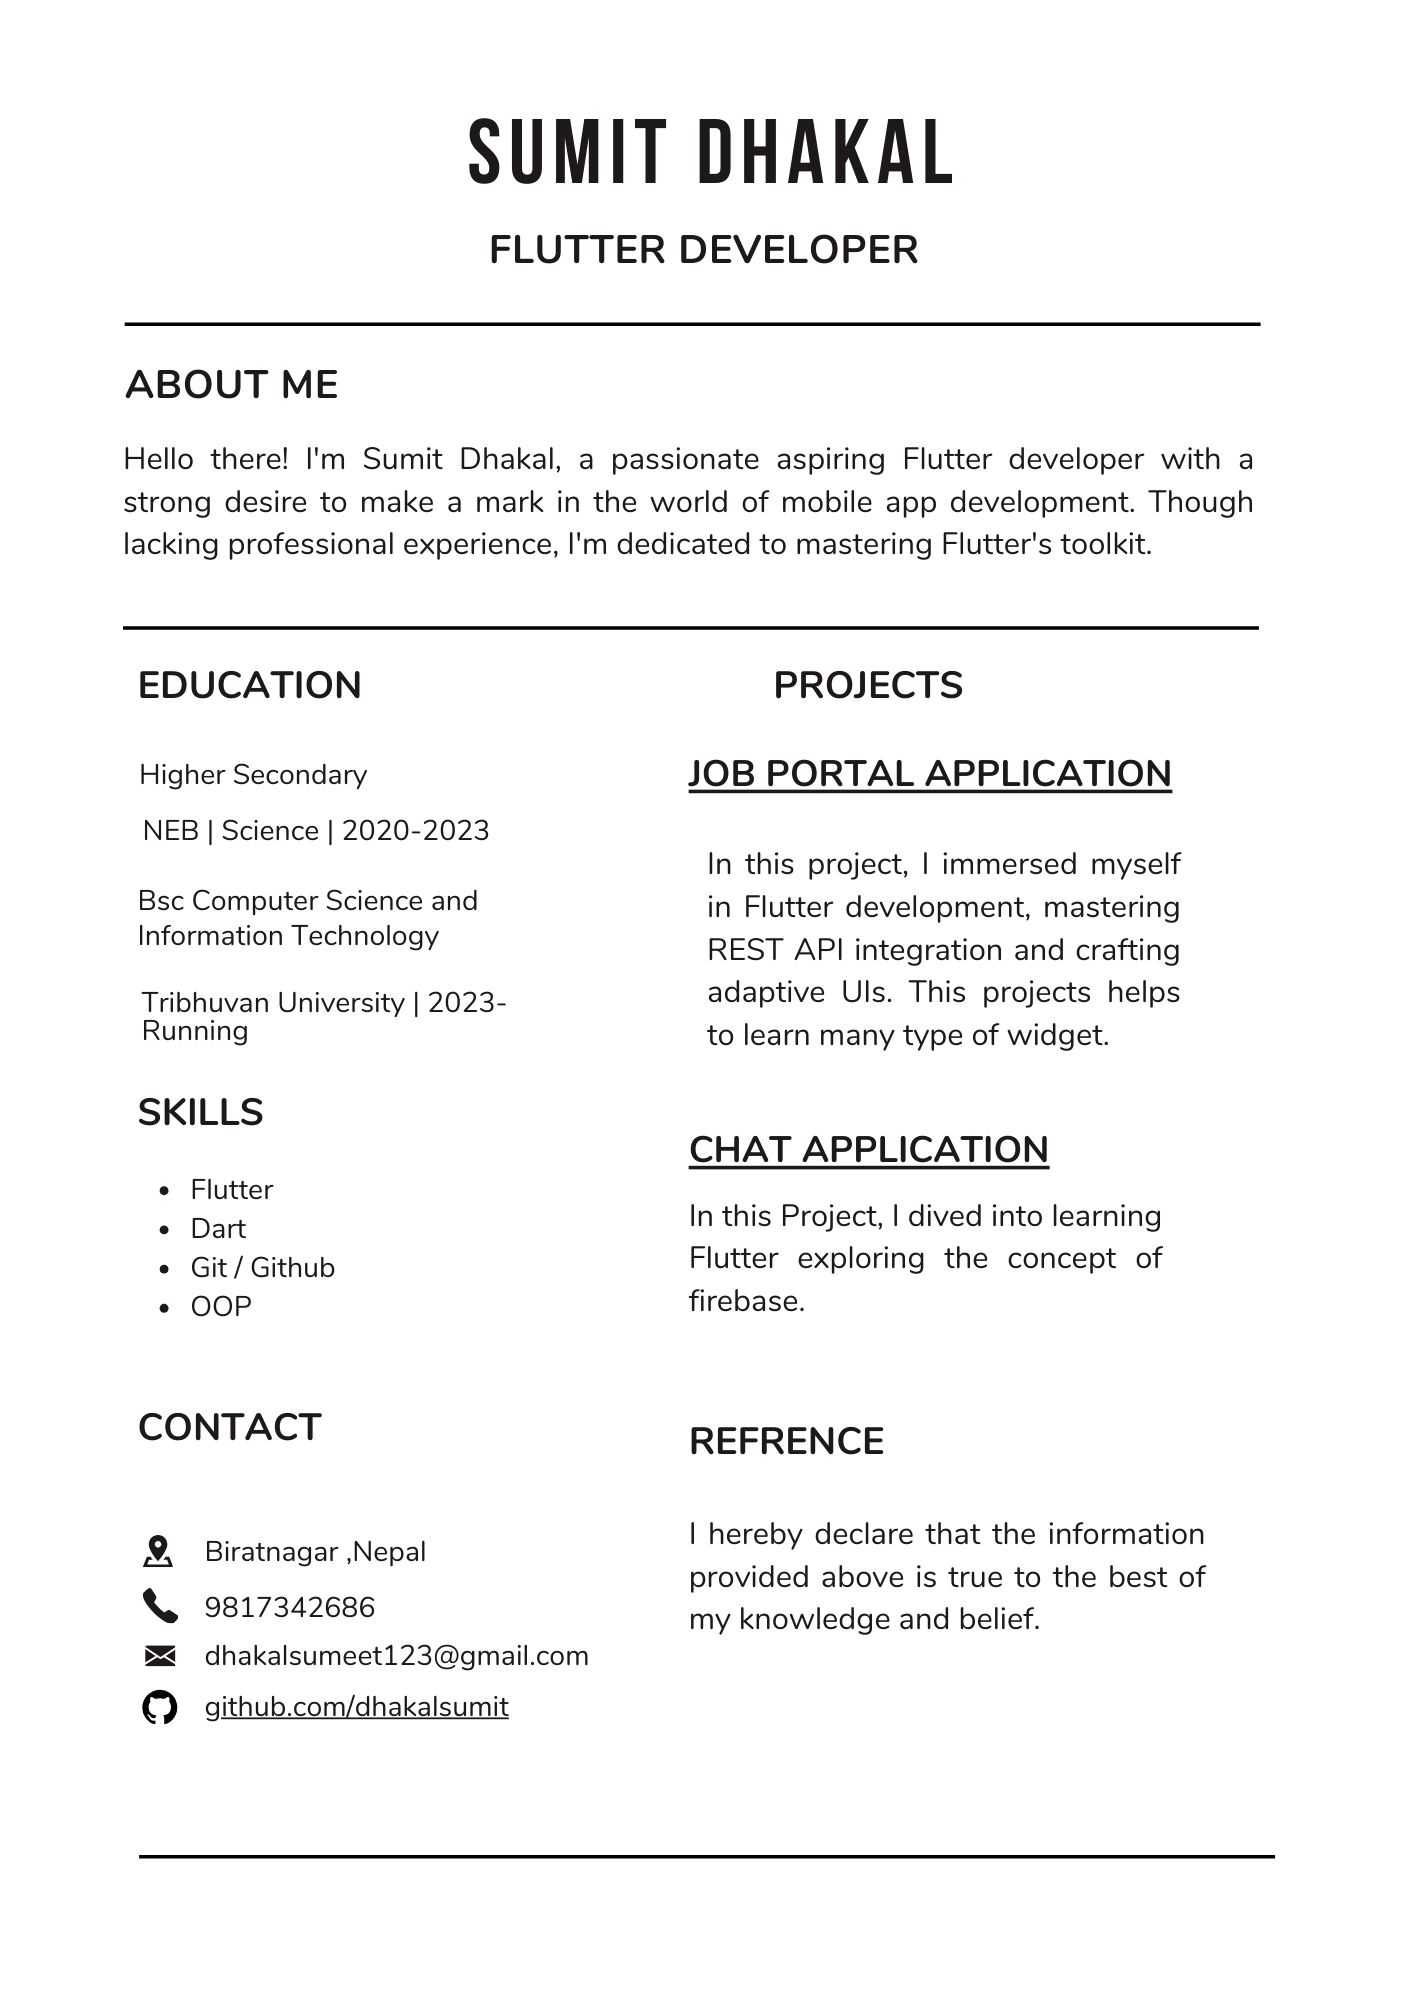
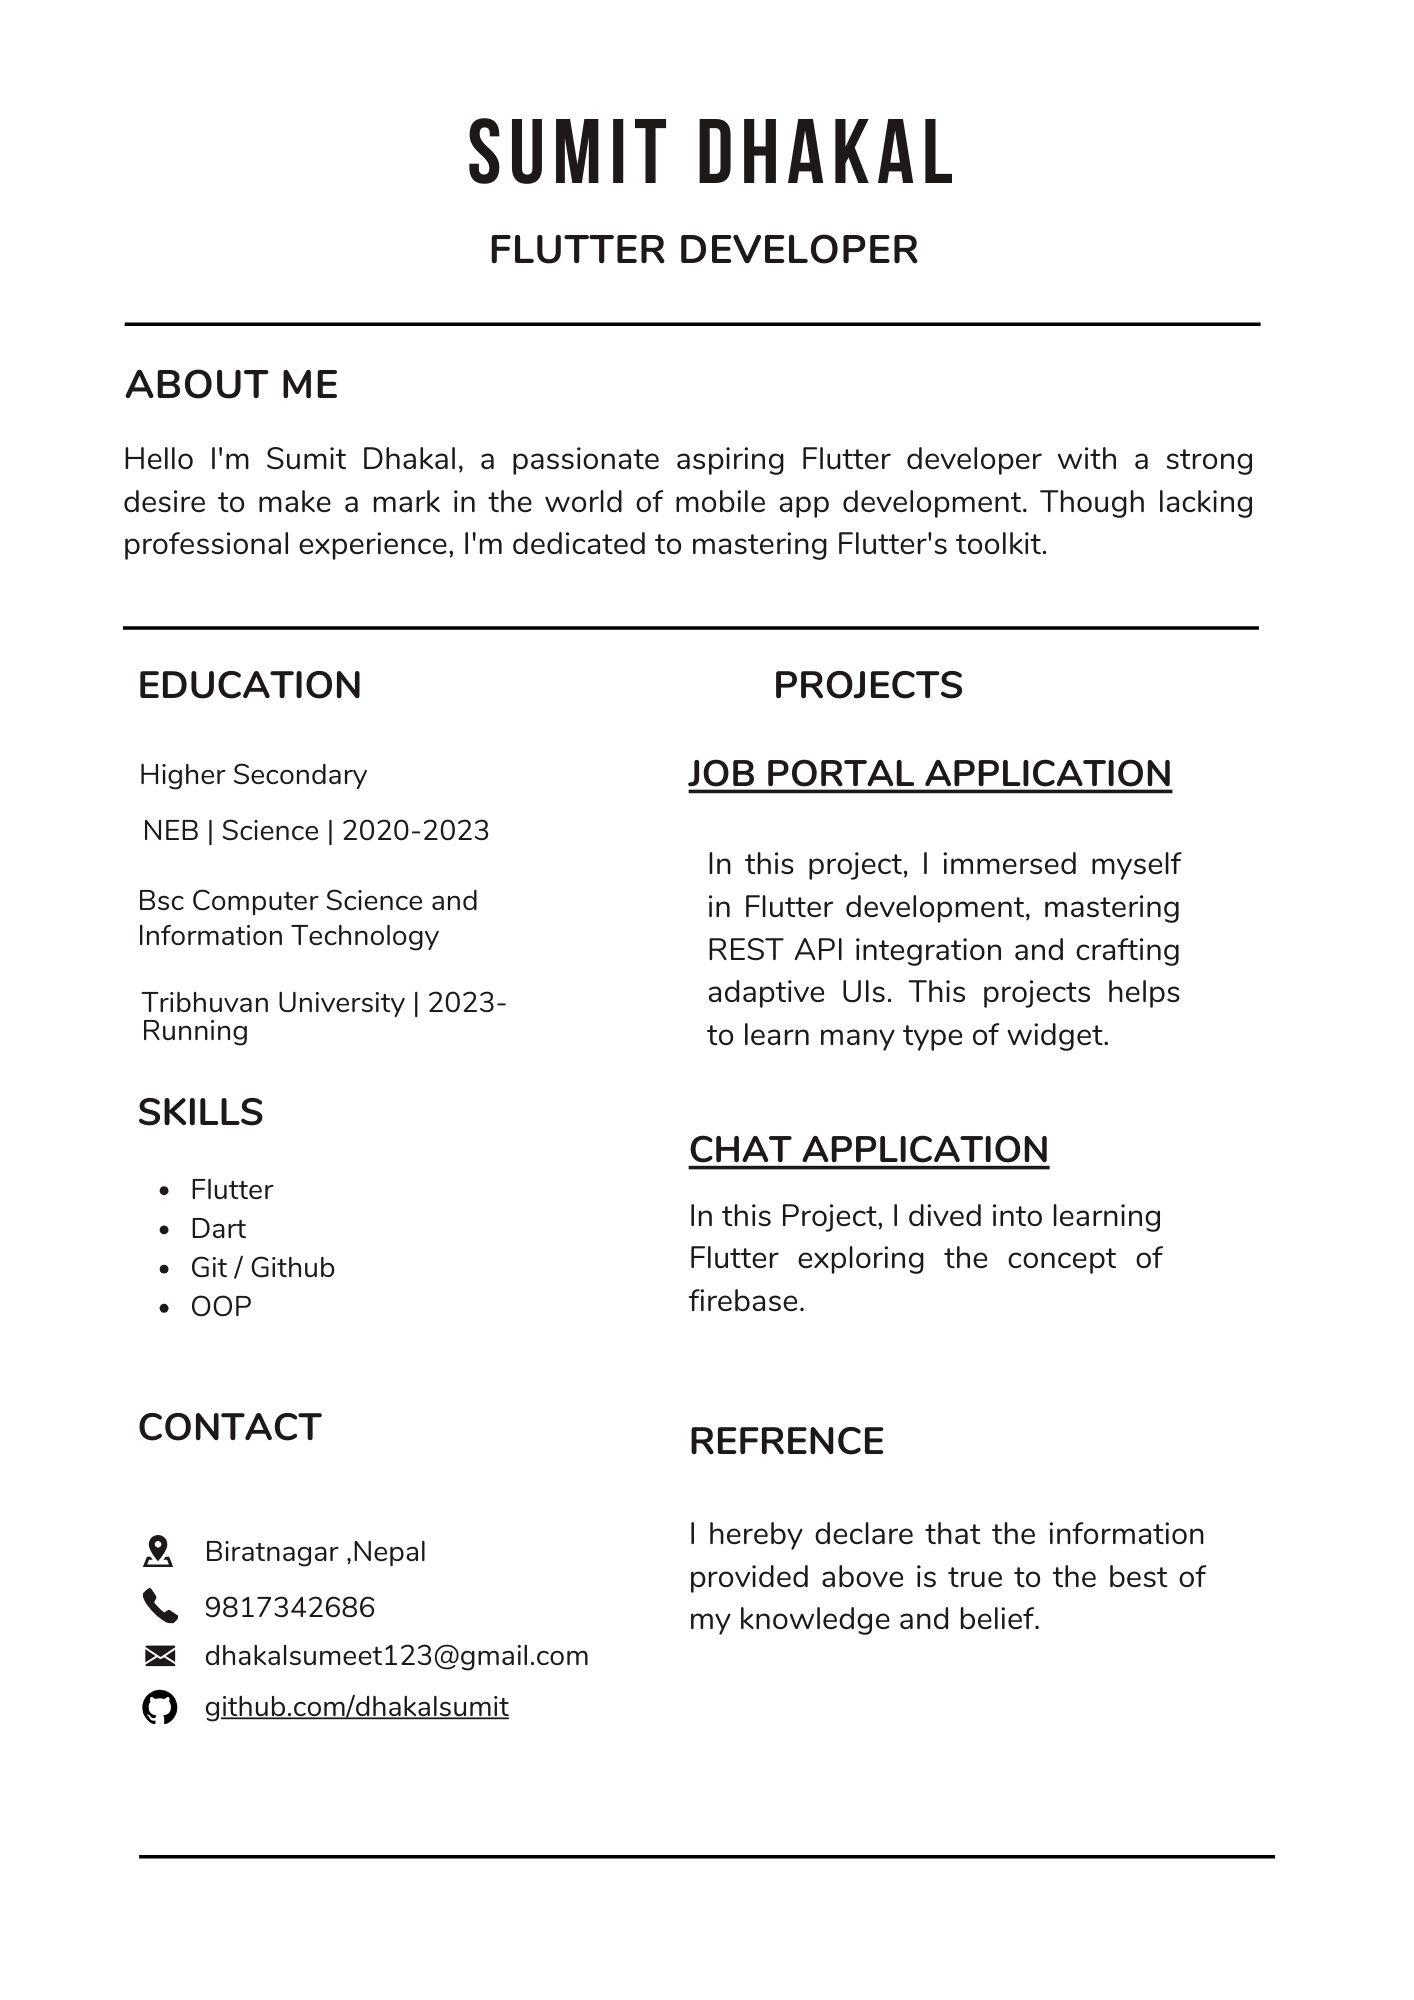
about me

Changed region(s): [[0.0934, 0.217, 0.8713, 0.279]]

diff --git a/html/portfolio.html b/html/portfolio.html
@@ -56,7 +56,7 @@
       
       <div id="about" class="paragraph">
        <div class="me"><h1>About me</h1></div> 
-       Lorem ipsum, dolor sit amet consectetur adipisicing elit. Repudiandae cupiditate doloremque repellat itaque ad illum velit, laboriosam voluptatum, unde adipisci distinctio quis suscipit corporis reprehenderit molestias dolorem vel deserunt. Soluta! Lorem ipsum dolor sit amet consectetur adipisicing elit. Minima doloribus possimus, deleniti nostrum officiis expedita explicabo eveniet id voluptas maxime consequatur ullam sunt sapiente quos nobis cupiditate repellendus cum temporibus! Lorem ipsum, dolor sit amet consectetur adipisicing elit. Voluptas, accusamus nemo! Blanditiis rem explicabo tenetur officiis, modi numquam eius ullam non maiores adipisci aliquam nam officia veniam. Rerum, et provident. Lorem ipsum dolor sit amet consectetur adipisicing elit. Voluptatum vero nobis cumque nam provident! Suscipit laudantium ipsam porro? Sequi unde quaerat corrupti, excepturi temporibus maiores culpa voluptatum cupiditate adipisci ullam?
+       Hello I'm Sumit Dhakal, a passionate aspiring Flutter developer with a strong desire to make a mark in the world of mobile app development. Though lacking professional experience, I'm dedicated to mastering Flutter's toolkit. I'm excited to collaborate, learn from fellow developers, and contribute to the vibrant Flutter community. 
       </div>
       <div class="download" id="resume">
         <a href="/img/myresume.jpg" download="resume.jpg">RESUME HERE</a>
